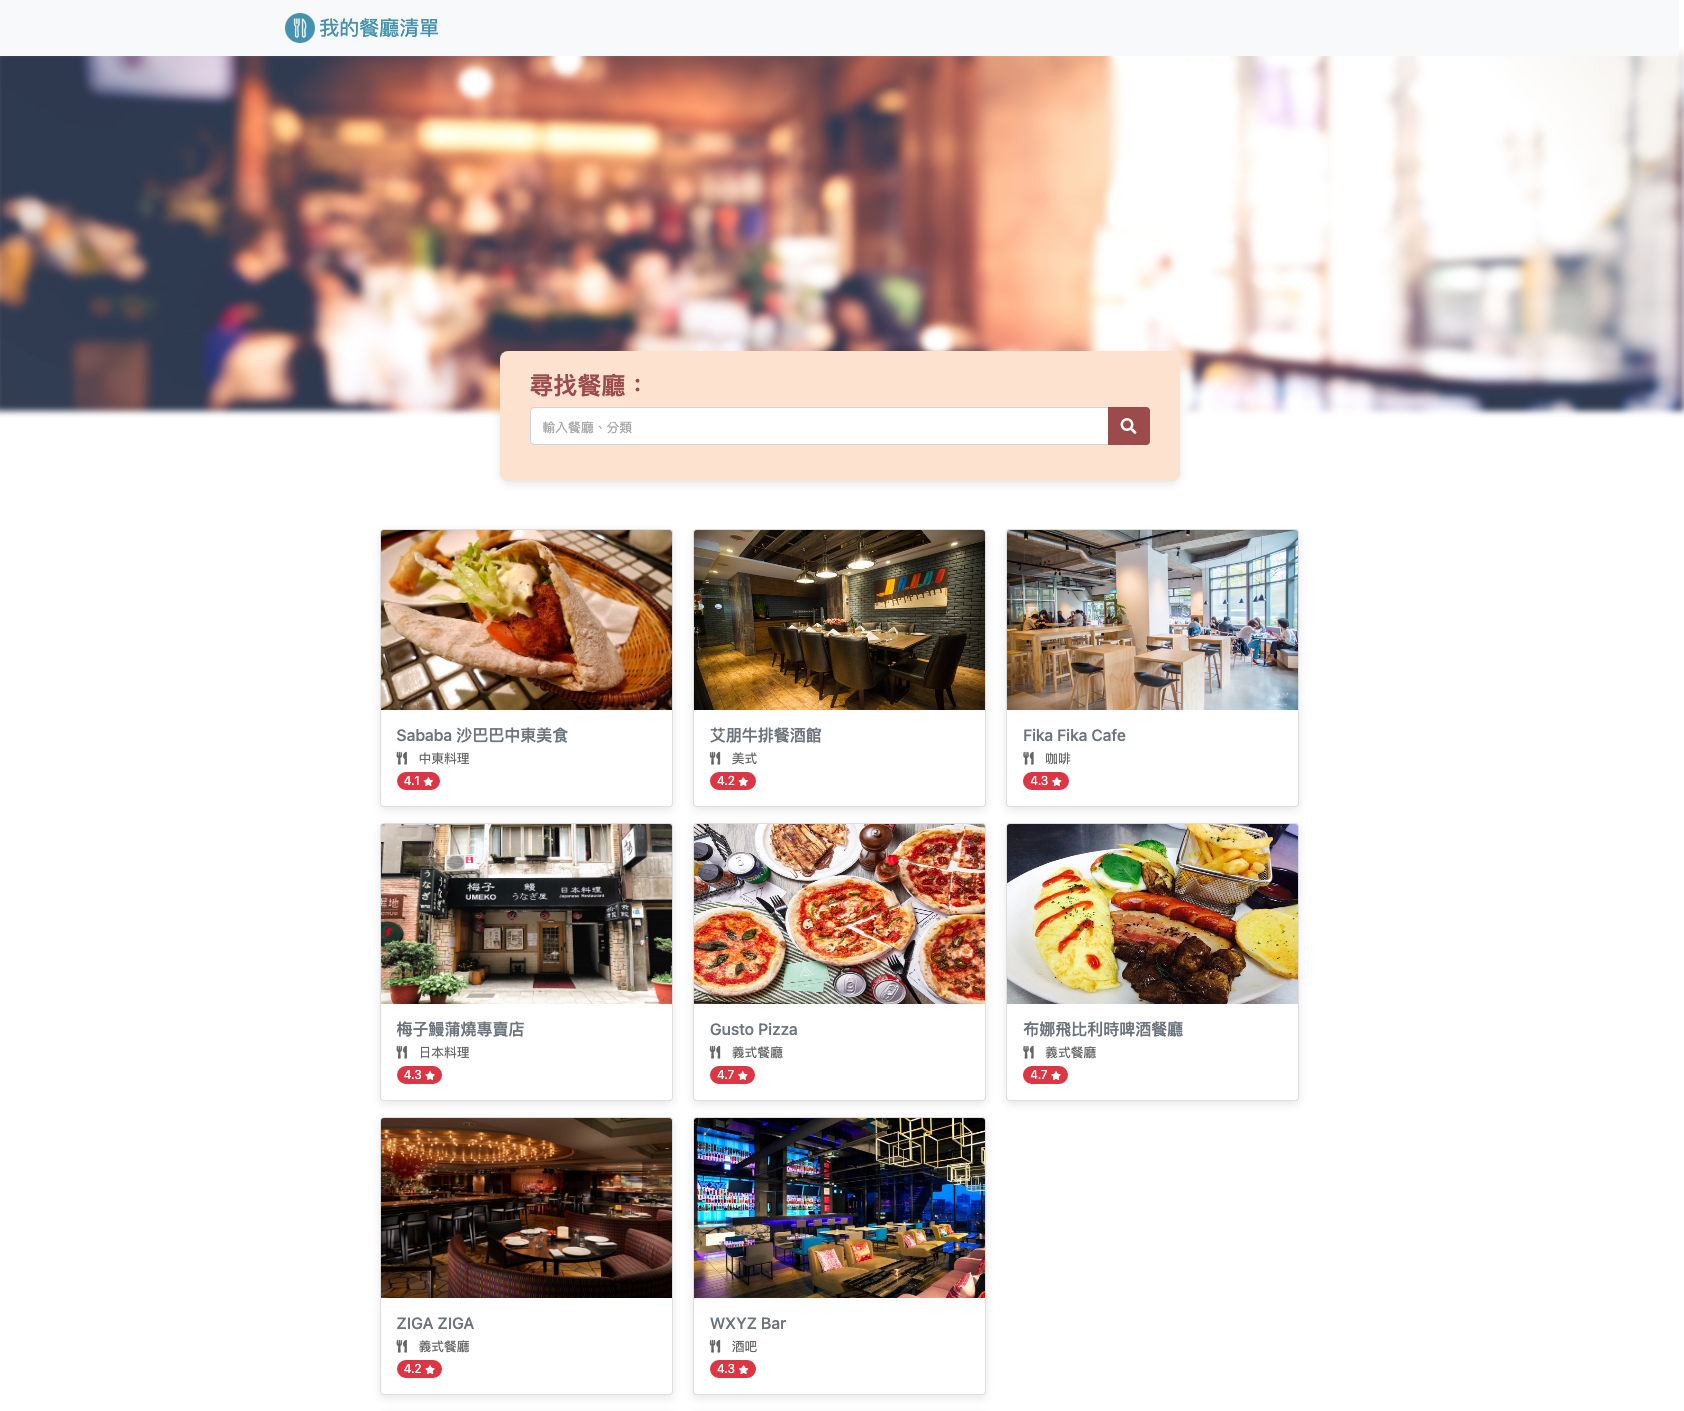
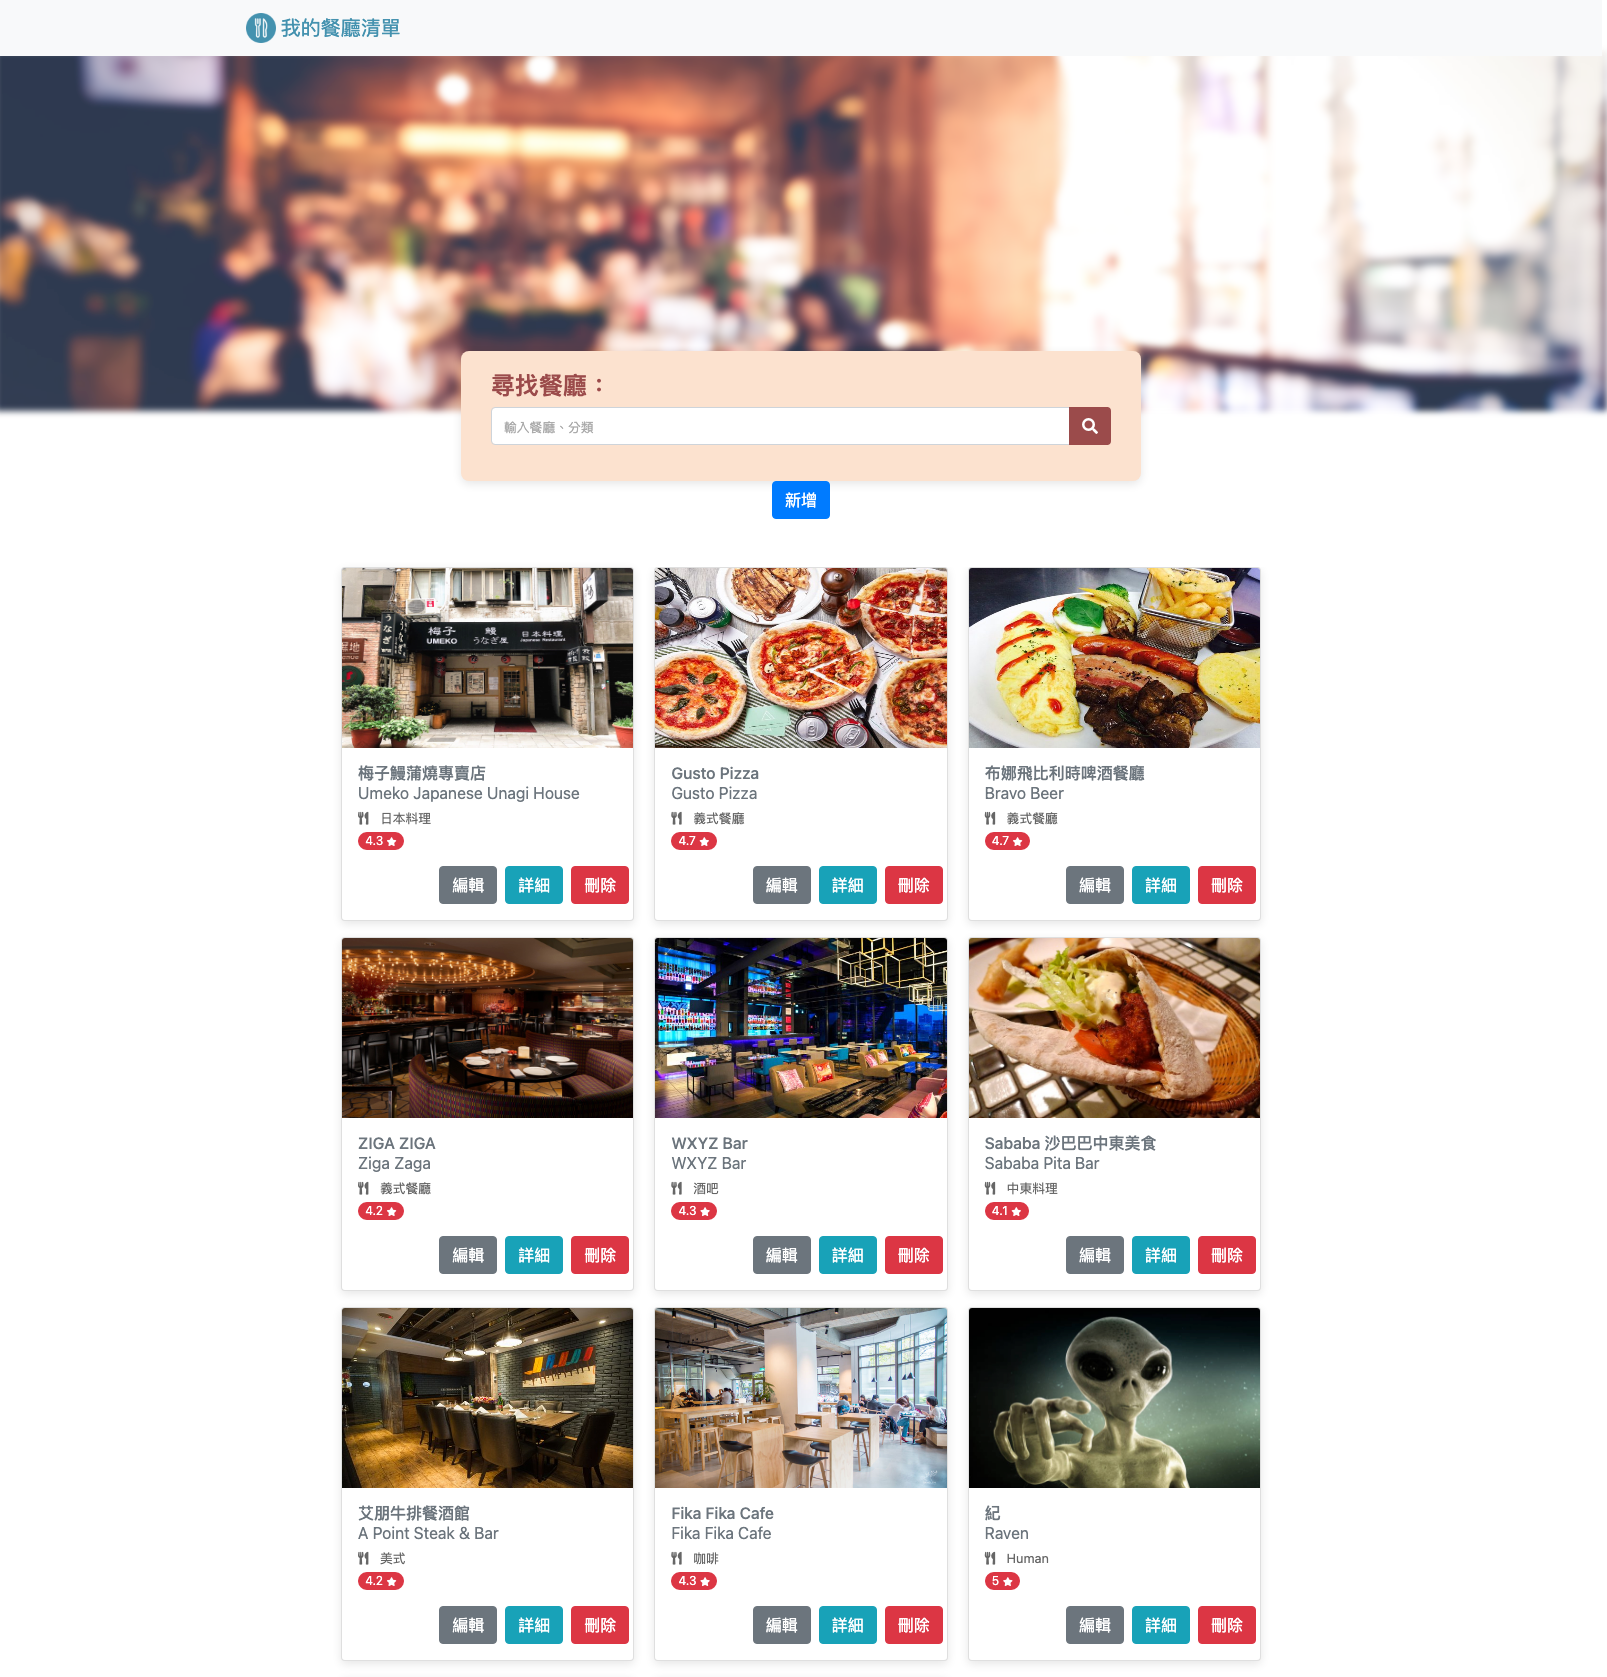
Update README.md

diff --git a/README.md b/README.md
@@ -1,18 +1,20 @@
 # Restaurant List 餐廳清單
 
-透過 Node.js 和 Express 打造的餐廳資訊網，提供各位吃貨們尋覓台北市的美食佳餚。
+透過 Node.js/ Express/ MongoDB 打造的餐廳資訊網
 
 ## Features 功能
 
-- 使用者可以在首頁看到所有餐廳與它們的簡單資料，包含照片、名稱、分類、評分
-- 使用者可以再點進去看餐廳的詳細資訊，包含類別、地址、電話、描述、圖片
+- 使用者可以新增一家餐廳
+- 使用者可以瀏覽一家餐廳的詳細資訊
+- 使用者可以瀏覽全部所有餐廳
+- 使用者可以修改一家餐廳的資訊
+- 使用者可以刪除一家餐廳
 - 使用者可以透過搜尋餐廳名稱或類別來找到特定的餐廳
 
 ## Preview 畫面預覽
 
 ![](localhost_3000_.png)
-![](localhost_3000_restaurants_8.png)
-![](localhost_3000_search_keyword.png)
+
 
 ## Installing 安裝
 
@@ -40,8 +42,8 @@ npm install
 npm run dev
 ```
 
-5. 出現以下訊息即可打開瀏覽器輸入 http://localhost:3000/ 開始使用
+5. 出現以下訊息即可打開瀏覽器輸入 http://localhost:3000 開始使用
 
 ```
-Express is listening on localhost:3000
+Express is listening on http://localhost:3000
 ```
